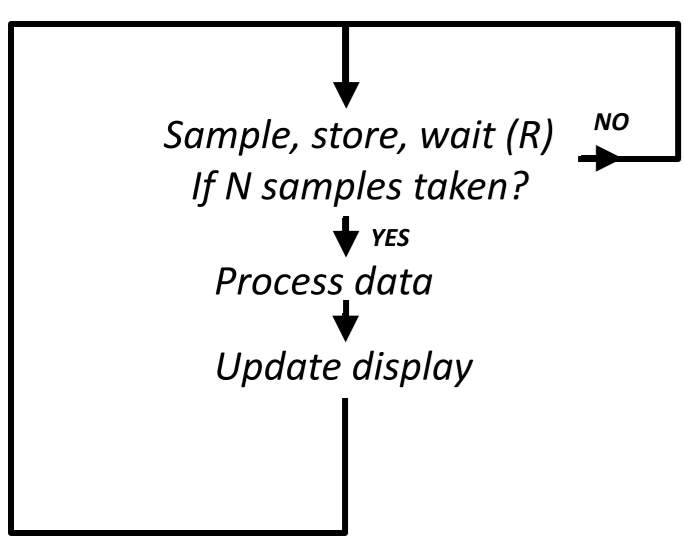
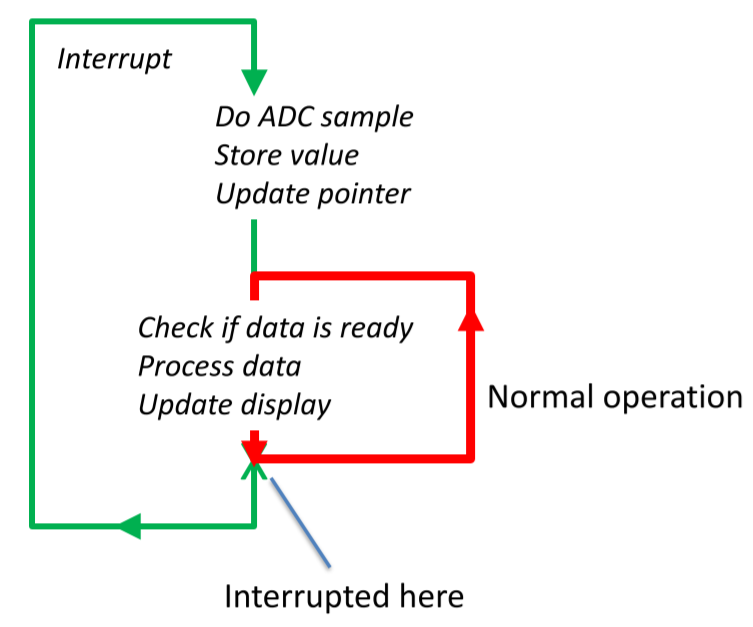
Implemented the better way to do it - flowchart picture attached with the files - Compiled fine

Changed region(s): [[0.0, 0.0296, 1.0, 1.0], [0.8596, 0.2074, 0.9211, 0.237], [0.3991, 0.8296, 0.4298, 0.8889]]

diff --git a/main.cpp b/main.cpp
@@ -147,6 +147,30 @@ int Normalise(int signal)
     return (int)result;
 }
 
+Ticker interruptTimer;
+unsigned int signal;
+unsigned int prevSignal = 0;
+// a row in matrix, a value from 1-7
+int row;
+const int numOfSamples = 5; // = array length
+int samples[numOfSamples];
+// (*) means give access - dereference.
+// (&) means reference to variable and returns the address of that variable.
+// dataPtr points to place where data can be read, will start at the second elt so we can process the signal using 2 values (first and second values):
+int *dataPtr = &samples[1];
+// samplePtr points to place where next data can be written:
+int *samplePtr = &samples[0];
+int numOfDataSampled = 0;
+
+void performSampling()
+{
+    signal = Din;
+    *samplePtr = signal;
+    numOfDataSampled++;
+    samplePtr = samplePtr + 1;
+    wait_ms(500);
+}
+
 int main()
 {
     // data to be written to the last column:
@@ -160,28 +184,10 @@ int main()
 
     setup_dot_matrix();
 
-    unsigned int signal;
-    unsigned int prevSignal = 0;
-    // a row in matrix, a value from 1-7
-    int row;
-    int numOfSamples = 5; // = array length
-    int samples[numOfSamples];
-    // (*) means give access - dereference.
-    // (&) means reference to variable and returns the address of that variable.
-    // dataPtr points to place where data can be read, will start at the second elt so we can process the signal using 2 values (first and second values):
-    int *dataPtr = &samples[1];
-    // samplePtr points to place where next data can be written:
-    int *samplePtr = &samples[0];
-    int numOfDataSampled = 0;
-
     while (true)
     {
-        //* sample data:
-        signal = Din;
-        *samplePtr = signal;
-        numOfDataSampled++;
-        samplePtr = samplePtr + 1;
-        wait_ms(500);
+
+        interruptTimer.attach(&performSampling, 0.1);
 
         if (numOfDataSampled == numOfSamples)
         {
